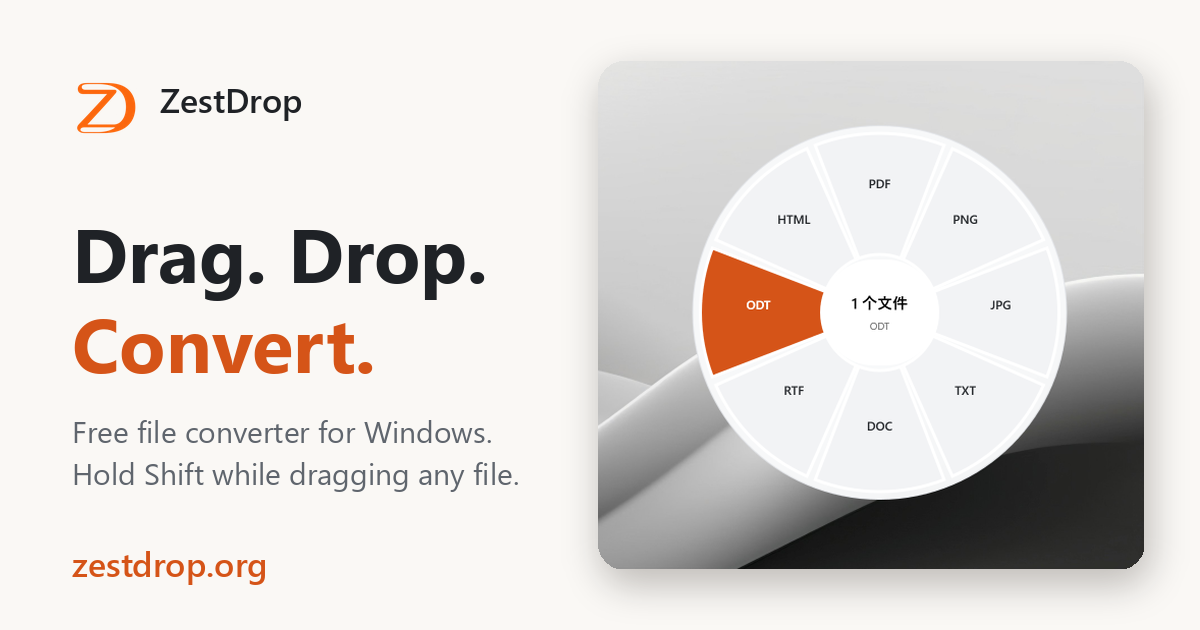
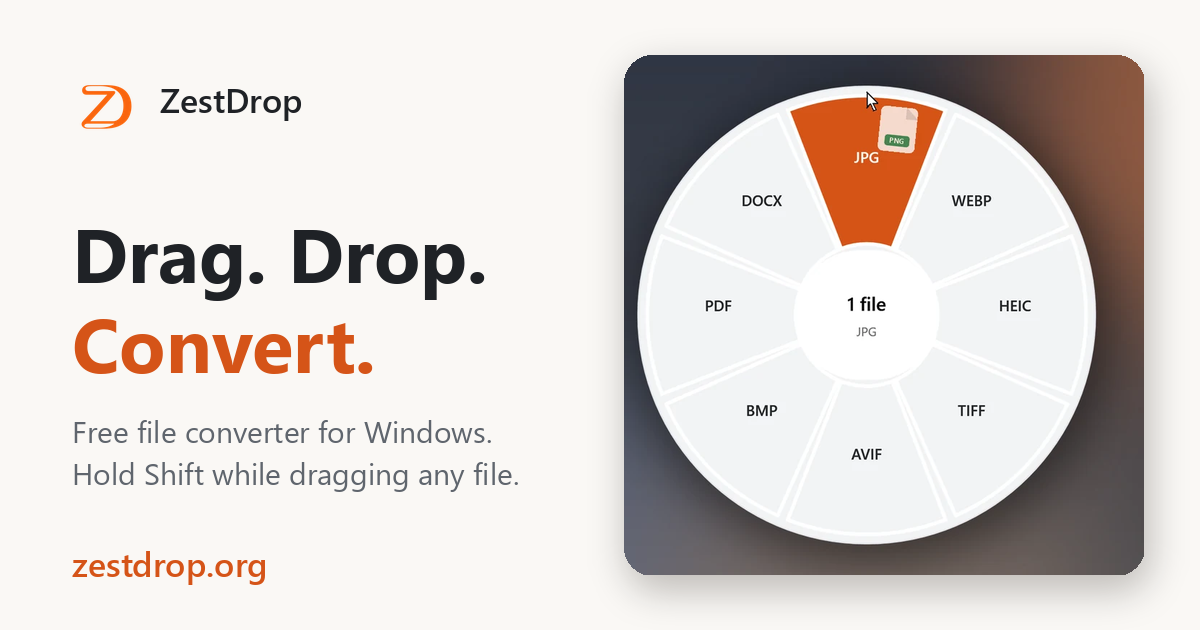
Update the site for v0.1.1 and the Microsoft Store listing
- Use real English and Chinese screenshots from the Store package, shown
  in the visitor's language, and rebuild the social preview with the
  English wheel. Remove the old Chinese-only screenshots.
- Add a section on the new job controls (pause, cancel, hide, two jobs
  at once).
- Note that FFmpeg is a GPLv3 build with a link to its source, and link
  the third-party license list in the footer.
- Point the v0.1.1 download fallback at the new 262 MB release.
- Use https://zestdrop.org/privacy as the privacy page URL everywhere.

diff --git a/index.html b/index.html
@@ -20,9 +20,9 @@
 <meta property="og:image:width" content="1200">
 <meta property="og:image:height" content="630">
 <meta name="twitter:card" content="summary_large_image">
-<link rel="stylesheet" href="/assets/css/site.css?v=3">
+<link rel="stylesheet" href="/assets/css/site.css?v=4">
 <script type="application/ld+json">
-{"@context":"https://schema.org","@type":"SoftwareApplication","name":"ZestDrop","operatingSystem":"Windows","applicationCategory":"UtilitiesApplication","offers":{"@type":"Offer","price":"0","priceCurrency":"USD"},"license":"https://opensource.org/licenses/MIT","url":"https://zestdrop.org/","downloadUrl":"https://github.com/Maxaccurate/ZestDrop/releases/latest","softwareVersion":"0.1.0"}
+{"@context":"https://schema.org","@type":"SoftwareApplication","name":"ZestDrop","operatingSystem":"Windows","applicationCategory":"UtilitiesApplication","offers":{"@type":"Offer","price":"0","priceCurrency":"USD"},"license":"https://opensource.org/licenses/MIT","url":"https://zestdrop.org/","downloadUrl":"https://github.com/Maxaccurate/ZestDrop/releases/latest","softwareVersion":"0.1.1"}
 </script>
 <!--
   Visitor statistics: on Cloudflare Pages, enable Web Analytics in the project's Metrics tab; no snippet is needed.
@@ -61,13 +61,13 @@
         <h1 data-i18n="hero.title">Drag. Drop. <em>Convert.</em></h1>
         <p class="lead" data-i18n="hero.lead">Hold <kbd>Shift</kbd> while you drag any file, and a format wheel opens under your cursor. Release on the format you want. No app window, no upload, no browser tab.</p>
         <div class="cta-row">
-          <a class="btn btn-primary" href="https://github.com/Maxaccurate/ZestDrop/releases/download/v0.1.0/ZestDrop-v0.1.0-windows-x64.zip" data-download>
+          <a class="btn btn-primary" href="https://github.com/Maxaccurate/ZestDrop/releases/download/v0.1.1/ZestDrop-v0.1.1-windows-x64.zip" data-download>
             <svg viewBox="0 0 24 24" width="20" height="20" aria-hidden="true"><path fill="currentColor" d="M3 5.5 10.4 4.5v7H3zm0 13 7.4 1v-7.1H3zm8.3 1.1L21 21v-8.6h-9.7zm0-15.2v7.1H21V3z"/></svg>
             <span data-i18n="cta.download">Download for Windows</span>
           </a>
           <a class="btn btn-ghost" href="https://github.com/Maxaccurate/ZestDrop" data-i18n="cta.source">View source on GitHub</a>
         </div>
-        <p class="fineprint"><span data-release-meta>v0.1.0 · 275 MB · portable ZIP</span> · <span data-i18n="cta.fine">Windows x64 · English and 简体中文</span></p>
+        <p class="fineprint"><span data-release-meta>v0.1.1 · 262 MB · portable ZIP</span> · <span data-i18n="cta.fine">Windows x64 · English and 简体中文</span></p>
       </div>
 
       <div class="demo" id="demo">
@@ -179,27 +179,31 @@
       <h2 data-i18n="shots.title">Real tools when you need them</h2>
       <p class="section-lead" data-i18n="shots.lead">Tools that need settings open in their own window with a live preview. Every audio and video tool has a player with a seek bar, and trimming gives you draggable start and end handles.</p>
       <figure class="shot-main">
-        <img src="/assets/img/tool-trim-video.png" width="1040" height="800" loading="lazy" alt="The ZestDrop trim tool window, with a video preview, a timeline with orange start and end handles, playback controls and start and end time fields." data-i18n-alt="shots.trim.alt">
+        <img src="/assets/img/tool-trim-en.webp" data-src-en="/assets/img/tool-trim-en.webp" data-src-zh="/assets/img/tool-trim-zh.webp" width="1040" height="800" loading="lazy" alt="The ZestDrop trim tool window, with a video preview, a timeline with orange start and end handles, playback controls and start and end time fields." data-i18n-alt="shots.trim.alt">
         <figcaption data-i18n="shots.trim">The trim tool: preview, timeline handles, exact times, then save a new file.</figcaption>
       </figure>
       <div class="shot-grid">
         <figure>
-          <img src="/assets/img/document-conversion.png" width="536" height="499" loading="lazy" alt="Format wheel for a document, with ODT highlighted among HTML, PDF, PNG, JPG, TXT, DOC and RTF." data-i18n-alt="shots.doc.alt">
-          <figcaption data-i18n="shots.doc">Document formats · <kbd>Shift</kbd></figcaption>
+          <img src="/assets/img/wheel-formats-en.webp" data-src-en="/assets/img/wheel-formats-en.webp" data-src-zh="/assets/img/wheel-formats-zh.webp" width="720" height="720" loading="lazy" alt="Format wheel for a PNG image, with JPG highlighted among WEBP, HEIC, TIFF, AVIF, BMP, PDF and DOCX." data-i18n-alt="shots.fmt.alt">
+          <figcaption data-i18n="shots.fmt">Formats for an image · <kbd>Shift</kbd></figcaption>
         </figure>
         <figure>
-          <img src="/assets/img/video-tools.png" width="477" height="459" loading="lazy" alt="Tool wheel for a video, with compress, metadata, remove audio, trim, crop, speed, save frames, split and redact." data-i18n-alt="shots.vid.alt">
-          <figcaption data-i18n="shots.vid">Video tools · <kbd>Ctrl</kbd> + <kbd>Shift</kbd></figcaption>
-        </figure>
-        <figure>
-          <img src="/assets/img/archive-packing.png" width="464" height="420" loading="lazy" alt="Wheel offering to pack files into ZIP, TAR, GZIP or RAR." data-i18n-alt="shots.arc.alt">
-          <figcaption data-i18n="shots.arc">Pack anything into an archive</figcaption>
+          <img src="/assets/img/wheel-tools-en.webp" data-src-en="/assets/img/wheel-tools-en.webp" data-src-zh="/assets/img/wheel-tools-zh.webp" width="720" height="720" loading="lazy" alt="Tool wheel for a video, with Trim highlighted among Compress, Metadata, Remove audio, Crop frame, Speed, Save frames, Split and Redact." data-i18n-alt="shots.tools.alt">
+          <figcaption data-i18n="shots.tools">Tools for a video · <kbd>Ctrl</kbd> + <kbd>Shift</kbd></figcaption>
         </figure>
       </div>
-      <figure class="shot-progress">
-        <img src="/assets/img/conversion-progress.png" width="389" height="156" loading="lazy" alt="Progress card in the corner of the screen showing an image conversion with elapsed time." data-i18n-alt="shots.prog.alt">
-        <figcaption data-i18n="shots.prog">A small progress card shows the current file, real processed counts for batches, and elapsed time. Cancel any job from the tray.</figcaption>
-      </figure>
+      <div class="jobs">
+        <img src="/assets/img/jobs-en.webp" data-src-en="/assets/img/jobs-en.webp" data-src-zh="/assets/img/jobs-zh.webp" width="536" height="792" loading="lazy" alt="Three stacked progress cards: one processing with Pause, Cancel and Hide buttons, one paused with Resume, and one waiting for a running job to finish." data-i18n-alt="jobs.alt">
+        <div class="jobs-copy">
+          <h3 data-i18n="jobs.title">Every job has its own controls</h3>
+          <ul>
+            <li data-i18n="jobs.1"><b>Pause and resume.</b> Pause freezes the whole job, including FFmpeg, and stops the clock. Resume carries on exactly where it stopped.</li>
+            <li data-i18n="jobs.2"><b>Cancel.</b> Stops the job and removes its unfinished files. Your originals are never touched.</li>
+            <li data-i18n="jobs.3"><b>Hide.</b> Tucks the card away while the job keeps running, and a tray notification tells you when it finishes.</li>
+            <li data-i18n="jobs.4"><b>Two at a time.</b> Two jobs run in parallel and the rest wait their turn. Long encodes are never cut off.</li>
+          </ul>
+        </div>
+      </div>
     </div>
   </section>
 
@@ -223,11 +227,11 @@
       <img src="/assets/img/logo.png" alt="" width="72" height="72">
       <h2 data-i18n="dl.title">Get ZestDrop</h2>
       <p class="section-lead" data-i18n="dl.lead">Free for personal and commercial use. Unzip and run.</p>
-      <a class="btn btn-primary btn-large" href="https://github.com/Maxaccurate/ZestDrop/releases/download/v0.1.0/ZestDrop-v0.1.0-windows-x64.zip" data-download>
+      <a class="btn btn-primary btn-large" href="https://github.com/Maxaccurate/ZestDrop/releases/download/v0.1.1/ZestDrop-v0.1.1-windows-x64.zip" data-download>
         <svg viewBox="0 0 24 24" width="22" height="22" aria-hidden="true"><path fill="currentColor" d="M3 5.5 10.4 4.5v7H3zm0 13 7.4 1v-7.1H3zm8.3 1.1L21 21v-8.6h-9.7zm0-15.2v7.1H21V3z"/></svg>
         <span data-i18n="cta.download">Download for Windows</span>
       </a>
-      <p class="fineprint" data-release-meta>v0.1.0 · 275 MB · portable ZIP</p>
+      <p class="fineprint" data-release-meta>v0.1.1 · 262 MB · portable ZIP</p>
       <ol class="install">
         <li data-i18n="dl.1">Download the ZIP and <b>extract the whole folder</b>.</li>
         <li data-i18n="dl.2">Run <code>ZestDrop.exe</code>. It appears in the system tray.</li>
@@ -252,14 +256,14 @@
         </details>
         <details>
           <summary data-i18n="faq.2.q">Is it really free?</summary>
-          <div data-i18n="faq.2.a"><p>Yes. ZestDrop is open source under the MIT License, with no ads, accounts or paid tiers. Bundled components such as FFmpeg, Python and 7-Zip keep their own licenses.</p></div>
+          <div data-i18n="faq.2.a"><p>Yes. ZestDrop is open source under the MIT License, with no ads, accounts or paid tiers. Bundled components keep their own licenses. For example, FFmpeg is included as a GPLv3 build, and its exact source code is attached to the <a href="https://github.com/Maxaccurate/ZestDrop/releases/tag/v0.1.0">v0.1.0 release</a>.</p></div>
         </details>
         <details>
           <summary data-i18n="faq.3.q">Are my files uploaded anywhere?</summary>
           <div data-i18n="faq.3.a"><p>No. Everything is processed on your computer by the engines bundled in the download, and ZestDrop works with no internet connection.</p></div>
         </details>
         <details>
-          <summary data-i18n="faq.4.q">Why is the download about 250 MB?</summary>
+          <summary data-i18n="faq.4.q">Why is the download about 260 MB?</summary>
           <div data-i18n="faq.4.a"><p>It includes everything it needs to run: the .NET runtime, a portable Python with its libraries, FFmpeg and 7-Zip. You don't have to install anything else.</p></div>
         </details>
         <details>
@@ -296,12 +300,13 @@
       <a href="https://github.com/Maxaccurate/ZestDrop/releases" data-i18n="foot.releases">Releases</a>
       <a href="https://github.com/Maxaccurate/ZestDrop/issues" data-i18n="foot.issues">Report a bug</a>
       <a href="https://github.com/Maxaccurate/ZestDrop/blob/main/docs/usage.md" data-i18n="foot.guide">Usage guide (Chinese)</a>
-      <a href="/privacy.html" data-i18n="foot.privacy">Privacy</a>
+      <a href="https://github.com/Maxaccurate/ZestDrop/blob/main/docs/dependencies.json" data-i18n="foot.licenses">Third-party licenses</a>
+      <a href="/privacy" data-i18n="foot.privacy">Privacy</a>
     </nav>
   </div>
 </footer>
 
-<script src="/assets/js/i18n.js?v=5"></script>
-<script src="/assets/js/site.js?v=6"></script>
+<script src="/assets/js/i18n.js?v=6"></script>
+<script src="/assets/js/site.js?v=8"></script>
 </body>
 </html>

diff --git a/assets/js/i18n.js b/assets/js/i18n.js
@@ -51,14 +51,16 @@ window.ZD_ZH = {
   "shots.lead": "需要设置参数的工具会打开独立窗口，并提供实时预览。所有音视频工具都带播放器和进度条，裁剪时段可以直接拖动起止手柄。",
   "shots.trim": "裁剪时段工具：预览、拖动时间轴手柄、填写精确时间，然后保存新文件。",
   "shots.trim.alt": "ZestDrop 的裁剪时段窗口，包含视频预览、带橙色起止手柄的时间轴、播放控件以及开始和结束时间输入框。",
-  "shots.doc": "文档格式 · <kbd>Shift</kbd>",
-  "shots.doc.alt": "文档的格式轮盘，ODT 处于选中状态，周围是 HTML、PDF、PNG、JPG、TXT、DOC 和 RTF。",
-  "shots.vid": "视频工具 · <kbd>Ctrl</kbd> + <kbd>Shift</kbd>",
-  "shots.vid.alt": "视频的工具轮盘：压缩、元数据、移除音频、裁剪时段、裁剪画面、调整速度、保存帧、分段和视频打码。",
-  "shots.arc": "任意文件一键打包",
-  "shots.arc.alt": "把文件打包为 ZIP、TAR、GZIP 或 RAR 的轮盘。",
-  "shots.prog": "屏幕角落的小卡片会显示当前文件、批量任务的实际处理数量和已用时间。任何任务都可以从托盘取消。",
-  "shots.prog.alt": "屏幕角落的进度卡片，显示正在转换的图片和已用时间。",
+  "shots.fmt": "图片的格式菜单 · <kbd>Shift</kbd>",
+  "shots.fmt.alt": "PNG 图片的格式轮盘，JPG 处于选中状态，周围是 WEBP、HEIC、TIFF、AVIF、BMP、PDF 和 DOCX。",
+  "shots.tools": "视频的工具菜单 · <kbd>Ctrl</kbd> + <kbd>Shift</kbd>",
+  "shots.tools.alt": "视频的工具轮盘，裁剪时段处于选中状态，周围是压缩、元数据、移除音频、裁剪画面、调整速度、保存帧、分段和视频打码。",
+  "jobs.title": "每个任务都有自己的控制按钮",
+  "jobs.1": "<b>暂停与继续。</b>暂停会冻结整个任务（包括 FFmpeg）并停止计时，继续后从停下的地方接着处理。",
+  "jobs.2": "<b>取消。</b>停止任务并清除未完成的文件，原文件不会被改动。",
+  "jobs.3": "<b>隐藏。</b>把卡片收起来，任务仍在后台运行，完成时托盘会通知你。",
+  "jobs.4": "<b>同时处理两个。</b>两个任务并行运行，其余的排队等待。长时间的转码不会被中途打断。",
+  "jobs.alt": "三张叠放的进度卡片：一个正在处理，带有暂停、取消、隐藏按钮；一个已暂停，带有继续按钮；一个在等待前面的任务完成。",
   "priv.title": "你的文件只留在你的电脑上",
   "priv.lead": "在线转换工具要你把照片、合同和录音上传到别人的服务器。ZestDrop 的所有处理都在你自己的电脑上完成。",
   "priv.1": "<b>不上传任何内容。</b>所有转换都在本机进行，断网也能用。",
@@ -77,10 +79,10 @@ window.ZD_ZH = {
   "faq.1.q": "Windows 提示“Windows 已保护你的电脑”，安全吗？",
   "faq.1.a": "<p>ZestDrop 目前还没有代码签名，所以 Windows SmartScreen 会对来自未知发布者的新下载给出提示。点击<b>更多信息</b>，再点<b>仍要运行</b>即可。如果想确认下载的是官方文件，可以对照发布页上的 SHA-256 校验值。完整源代码公开在 GitHub 上。</p>",
   "faq.2.q": "真的免费吗？",
-  "faq.2.a": "<p>是的。ZestDrop 以 MIT 许可证开源，没有广告、账号或付费功能。FFmpeg、Python、7-Zip 等内置组件遵循各自的许可证。</p>",
+  "faq.2.a": "<p>是的。ZestDrop 以 MIT 许可证开源，没有广告、账号或付费功能。内置组件遵循各自的许可证，例如 FFmpeg 是 GPLv3 构建，其完整源代码附在 <a href=\"https://github.com/Maxaccurate/ZestDrop/releases/tag/v0.1.0\">v0.1.0 版本</a>中。</p>",
   "faq.3.q": "我的文件会被上传吗？",
   "faq.3.a": "<p>不会。所有处理都由下载包内置的引擎在你的电脑上完成，断网也能正常使用。</p>",
-  "faq.4.q": "为什么下载包有 250 MB 左右？",
+  "faq.4.q": "为什么下载包有 260 MB 左右？",
   "faq.4.a": "<p>它包含运行所需的一切：.NET 运行时、带依赖库的便携版 Python、FFmpeg 和 7-Zip。你不需要再安装任何东西。</p>",
   "faq.5.q": "转换后的文件保存在哪里？",
   "faq.5.a": "<p>保存在原文件所在的文件夹，并带有后缀，例如 <code>photo-converted.jpg</code>。如果重名会自动加编号，原文件不会被改动。右键托盘图标可以打开最近一次输出所在的文件夹。</p>",
@@ -95,6 +97,7 @@ window.ZD_ZH = {
   "foot.releases": "版本发布",
   "foot.issues": "反馈问题",
   "foot.guide": "使用说明",
+  "foot.licenses": "第三方许可证",
   "foot.privacy": "隐私政策"
 };
 

diff --git a/privacy.html b/privacy.html
@@ -5,7 +5,7 @@
 <meta name="viewport" content="width=device-width, initial-scale=1">
 <title>Privacy · ZestDrop</title>
 <meta name="description" content="ZestDrop privacy policy: the app processes your files on your own PC and collects no personal data.">
-<link rel="canonical" href="https://zestdrop.org/privacy.html">
+<link rel="canonical" href="https://zestdrop.org/privacy">
 <link rel="icon" href="/favicon.ico" sizes="any">
 <link rel="stylesheet" href="/assets/css/site.css?v=3">
 <style>
@@ -34,7 +34,7 @@
       <li><strong>No network connections.</strong> The app does not contact any server: no accounts, ads, analytics, telemetry or crash reporting.</li>
       <li><strong>Keyboard.</strong> To open its menu, ZestDrop checks whether Shift, Ctrl, F8, F9 or Esc are held while you drag a file. It does not record what you type.</li>
       <li><strong>Local log.</strong> A small log in <code>%LOCALAPPDATA%\ZestDrop\logs</code> records events such as "job finished" and error messages, to help with troubleshooting. It never leaves your PC, is capped in size, and you can delete it at any time.</li>
-      <li><strong>Settings.</strong> Your language choice is saved in <code>%LOCALAPPDATA%\ZestDrop\settings.json</code>.</li>
+      <li><strong>Settings.</strong> Your language choice, and whether to show the welcome window at startup, are saved in <code>%LOCALAPPDATA%\ZestDrop\settings.json</code>.</li>
       <li><strong>Microsoft Office.</strong> Some Office conversions use the copy of Word, Excel or PowerPoint installed on your PC. ZestDrop does not change Office's own privacy settings.</li>
     </ul>
 
@@ -59,7 +59,7 @@
       <li><strong>不进行任何网络连接。</strong>应用不连接任何服务器：没有账号、广告、统计、遥测或崩溃报告。</li>
       <li><strong>键盘。</strong>为了打开菜单，ZestDrop 只在你拖动文件时检查 Shift、Ctrl、F8、F9 或 Esc 是否按下，不会记录你输入的内容。</li>
       <li><strong>本地日志。</strong><code>%LOCALAPPDATA%\ZestDrop\logs</code> 中的小型日志会记录“任务完成”和错误信息等事件，用于排查问题。它不会离开你的电脑，有大小上限，你可以随时删除。</li>
-      <li><strong>设置。</strong>你选择的界面语言保存在 <code>%LOCALAPPDATA%\ZestDrop\settings.json</code>。</li>
+      <li><strong>设置。</strong>你选择的界面语言，以及是否在启动时显示欢迎窗口，保存在 <code>%LOCALAPPDATA%\ZestDrop\settings.json</code>。</li>
       <li><strong>Microsoft Office。</strong>部分 Office 转换会调用你电脑上已安装的 Word、Excel 或 PowerPoint。ZestDrop 不会更改 Office 自身的隐私设置。</li>
     </ul>
 

diff --git a/assets/css/site.css b/assets/css/site.css
@@ -204,13 +204,19 @@ code { font: .9em var(--mono); background: var(--bg-alt); border: 1px solid var(
 .shot-main { margin: 44px 0 0; }
 .shot-main img { border-radius: 16px; border: 1px solid var(--line); box-shadow: var(--shadow); width: 100%; }
 figcaption { font-size: .9rem; color: var(--muted); margin-top: 12px; }
-.shot-grid { display: grid; grid-template-columns: repeat(3, minmax(0, 1fr)); gap: 18px; margin-top: 28px; }
+.shot-grid { display: grid; grid-template-columns: repeat(2, minmax(0, 1fr)); gap: 18px; margin-top: 28px; }
 .shot-grid figure { margin: 0; }
-.shot-grid img { border-radius: 16px; width: 100%; aspect-ratio: 1 / 1; object-fit: cover; box-shadow: var(--shadow); }
-@media (max-width: 760px) { .shot-grid { grid-template-columns: 1fr; max-width: 440px; } }
-.shot-progress { margin: 28px 0 0; display: flex; flex-wrap: wrap; align-items: center; gap: 18px 28px; background: #26282B; border-radius: var(--radius); padding: 22px 28px; }
-.shot-progress img { width: min(320px, 100%); }
-.shot-progress figcaption { color: #C9CDD2; margin: 0; flex: 1 1 260px; font-size: .98rem; }
+.shot-grid img { border-radius: 16px; width: 100%; height: auto; aspect-ratio: 1 / 1; object-fit: cover; box-shadow: var(--shadow); }
+@media (max-width: 640px) { .shot-grid { grid-template-columns: 1fr; max-width: 440px; } }
+
+.jobs { margin-top: 28px; display: grid; grid-template-columns: minmax(0, 300px) minmax(0, 1fr); gap: 28px 44px; align-items: center; background: var(--surface); border: 1px solid var(--line); border-radius: var(--radius); padding: 28px; }
+.jobs img { width: 100%; height: auto; border-radius: 14px; box-shadow: var(--shadow); }
+.jobs h3 { font-size: 1.4rem; margin-bottom: 16px; }
+.jobs ul { list-style: none; margin: 0; padding: 0; display: grid; gap: 14px; }
+.jobs li { color: var(--muted); padding-left: 18px; position: relative; }
+.jobs li::before { content: ""; position: absolute; left: 0; top: .62em; width: 7px; height: 7px; border-radius: 999px; background: var(--accent); }
+.jobs li b { color: var(--ink); }
+@media (max-width: 760px) { .jobs { grid-template-columns: 1fr; padding: 20px; } .jobs img { max-width: 300px; margin-inline: auto; } }
 
 .section-dark { background: #1A1B1D; color: #ECEDEE; }
 .section-dark .section-lead { color: #A9AFB6; }

diff --git a/assets/js/site.js b/assets/js/site.js
@@ -26,6 +26,8 @@
     document.documentElement.lang = lang === "zh" ? "zh-CN" : "en";
     $$("[data-i18n]").forEach(el => { const value = text(el.dataset.i18n); if (value != null) el.innerHTML = value; });
     $$("[data-i18n-alt]").forEach(el => { const value = text(el.dataset.i18nAlt); if (value != null) el.alt = value; });
+    // Screenshots show the app in the visitor's language.
+    $$("img[data-src-en]").forEach(img => { const src = lang === "zh" ? img.dataset.srcZh : img.dataset.srcEn; if (src && !img.src.endsWith(src)) img.src = src; });
     document.title = text("doc.title");
     metaDescription.content = text("doc.description");
     const toggle = $("#lang-toggle");
@@ -50,7 +52,7 @@
   onScroll();
 
   /* ---------- Latest release (falls back to the links in the HTML) ---------- */
-  let release = { tag: "v0.1.0", size: 288057762 };
+  let release = { tag: "v0.1.1", size: 274469261 };
   function renderRelease() {
     const mb = Math.round(release.size / 1048576);
     const label = `${release.tag} · ${mb} MB · ${lang === "zh" ? "便携 ZIP" : "portable ZIP"}`;
